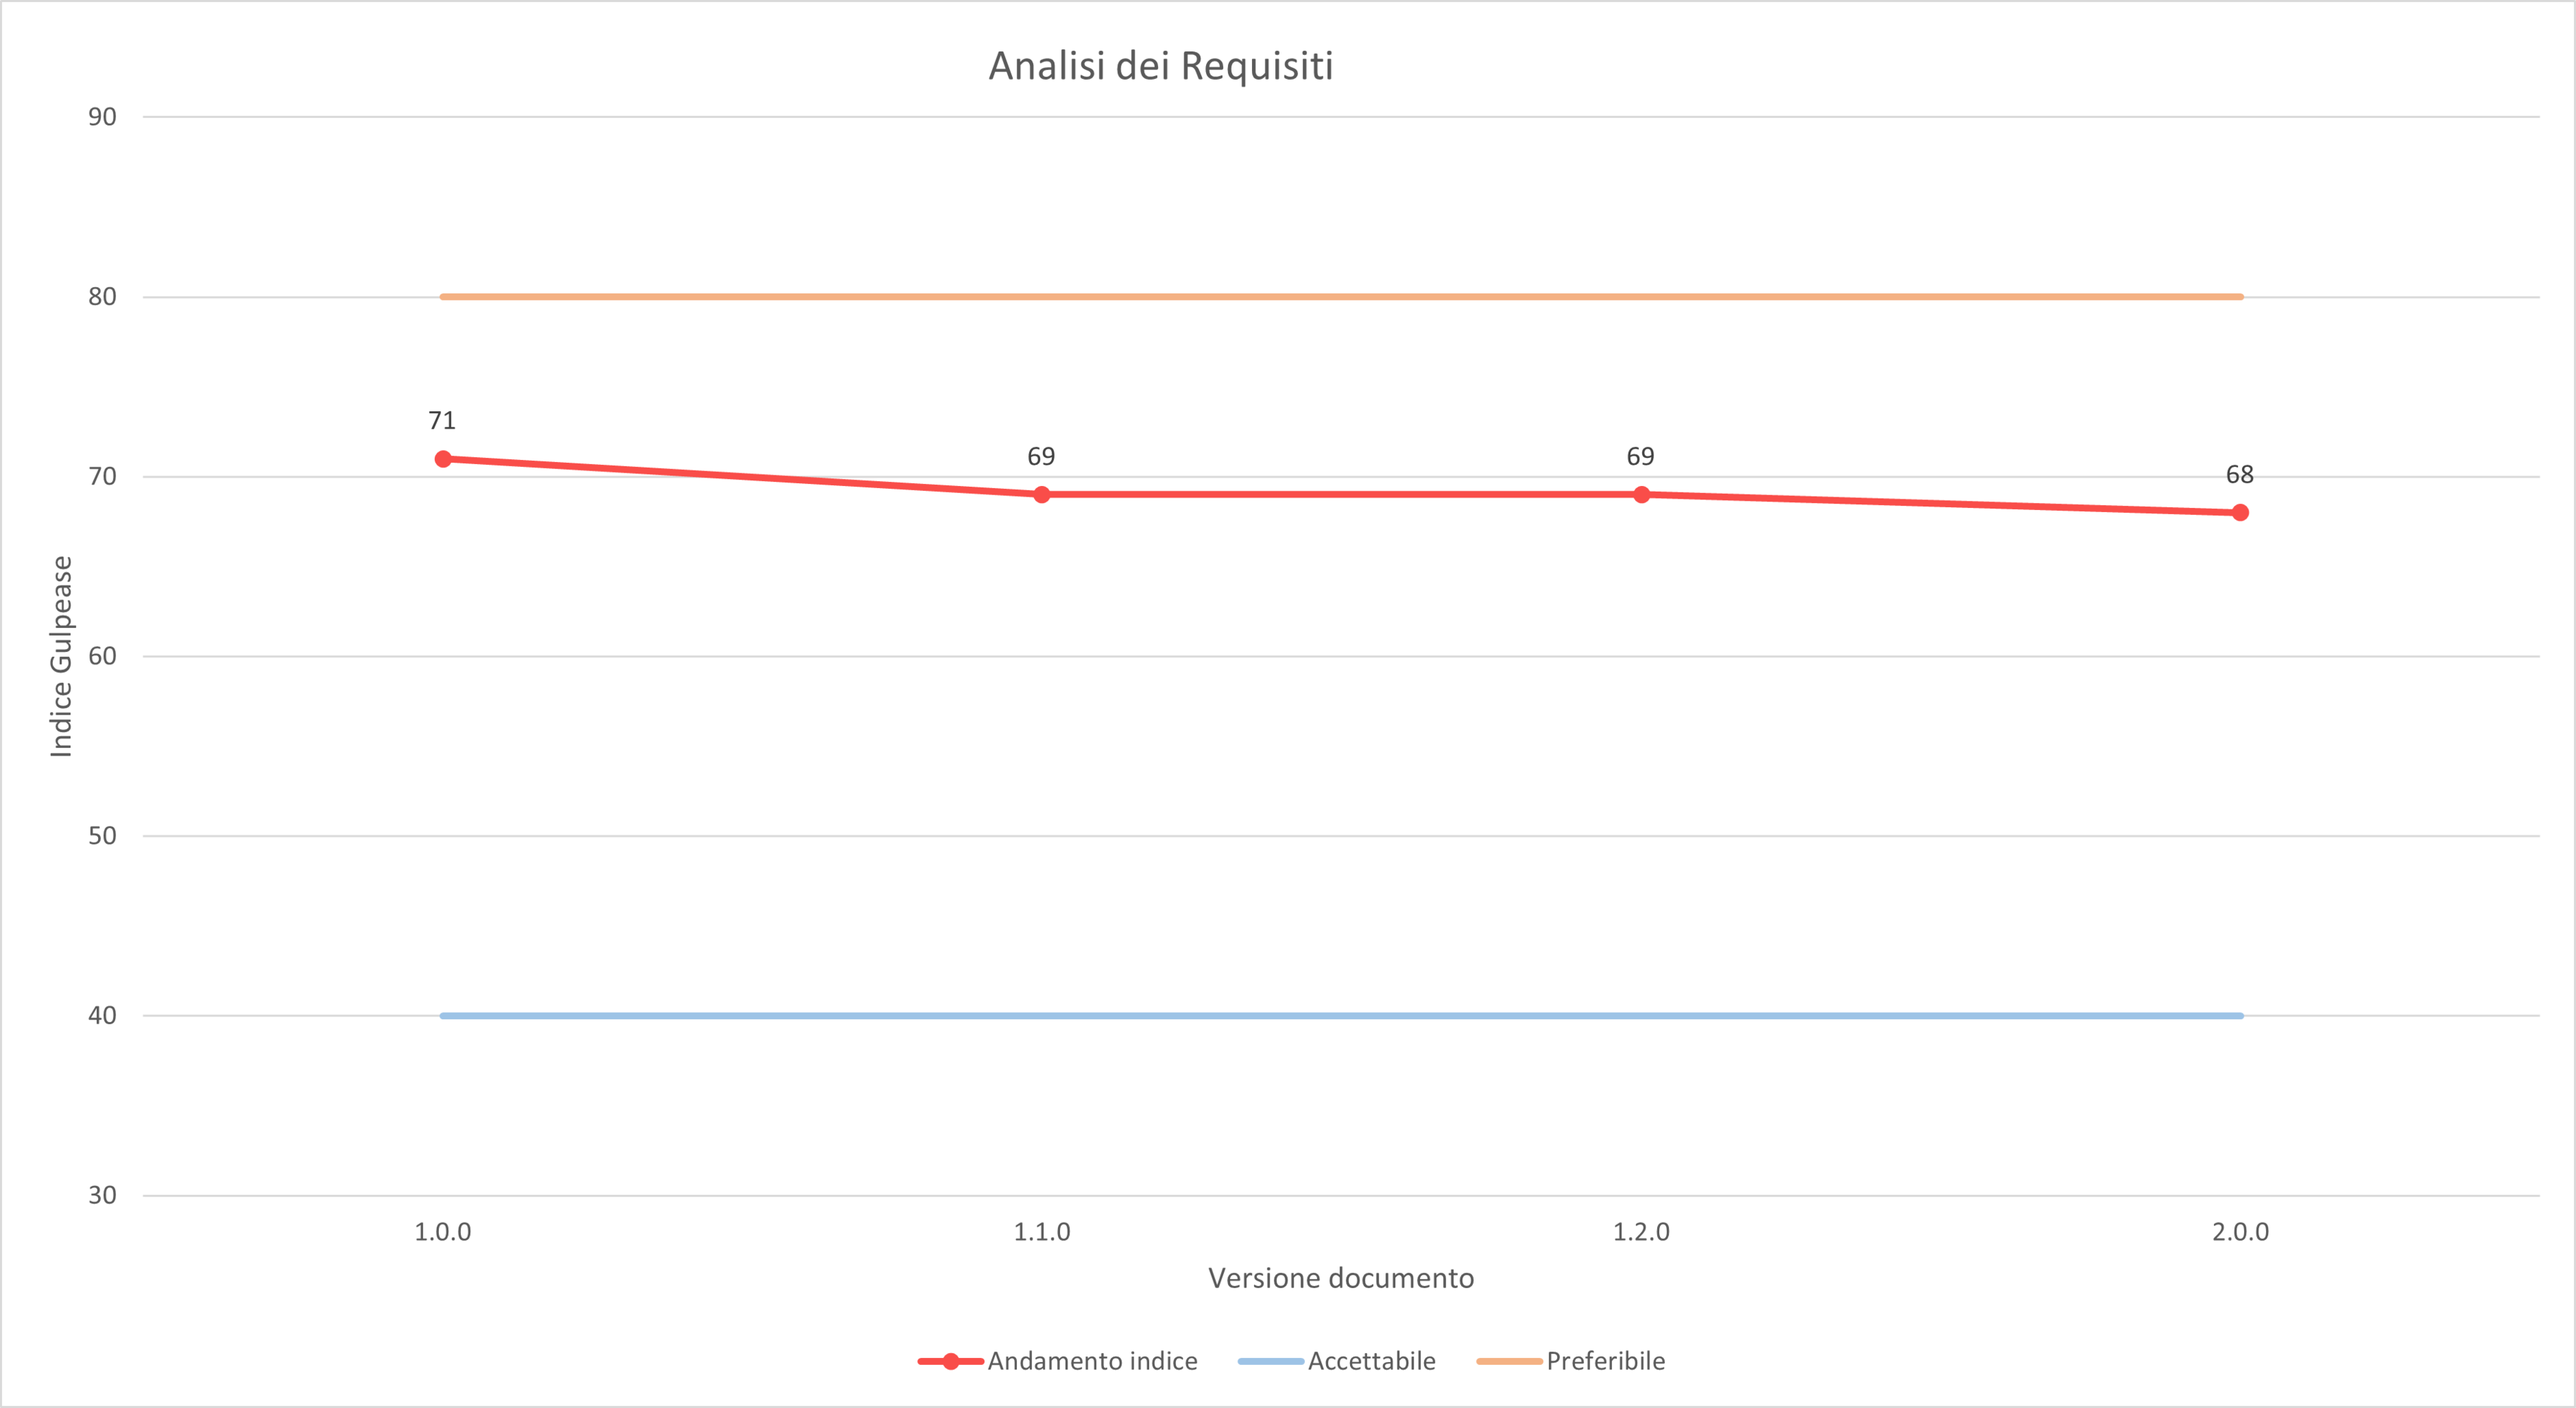
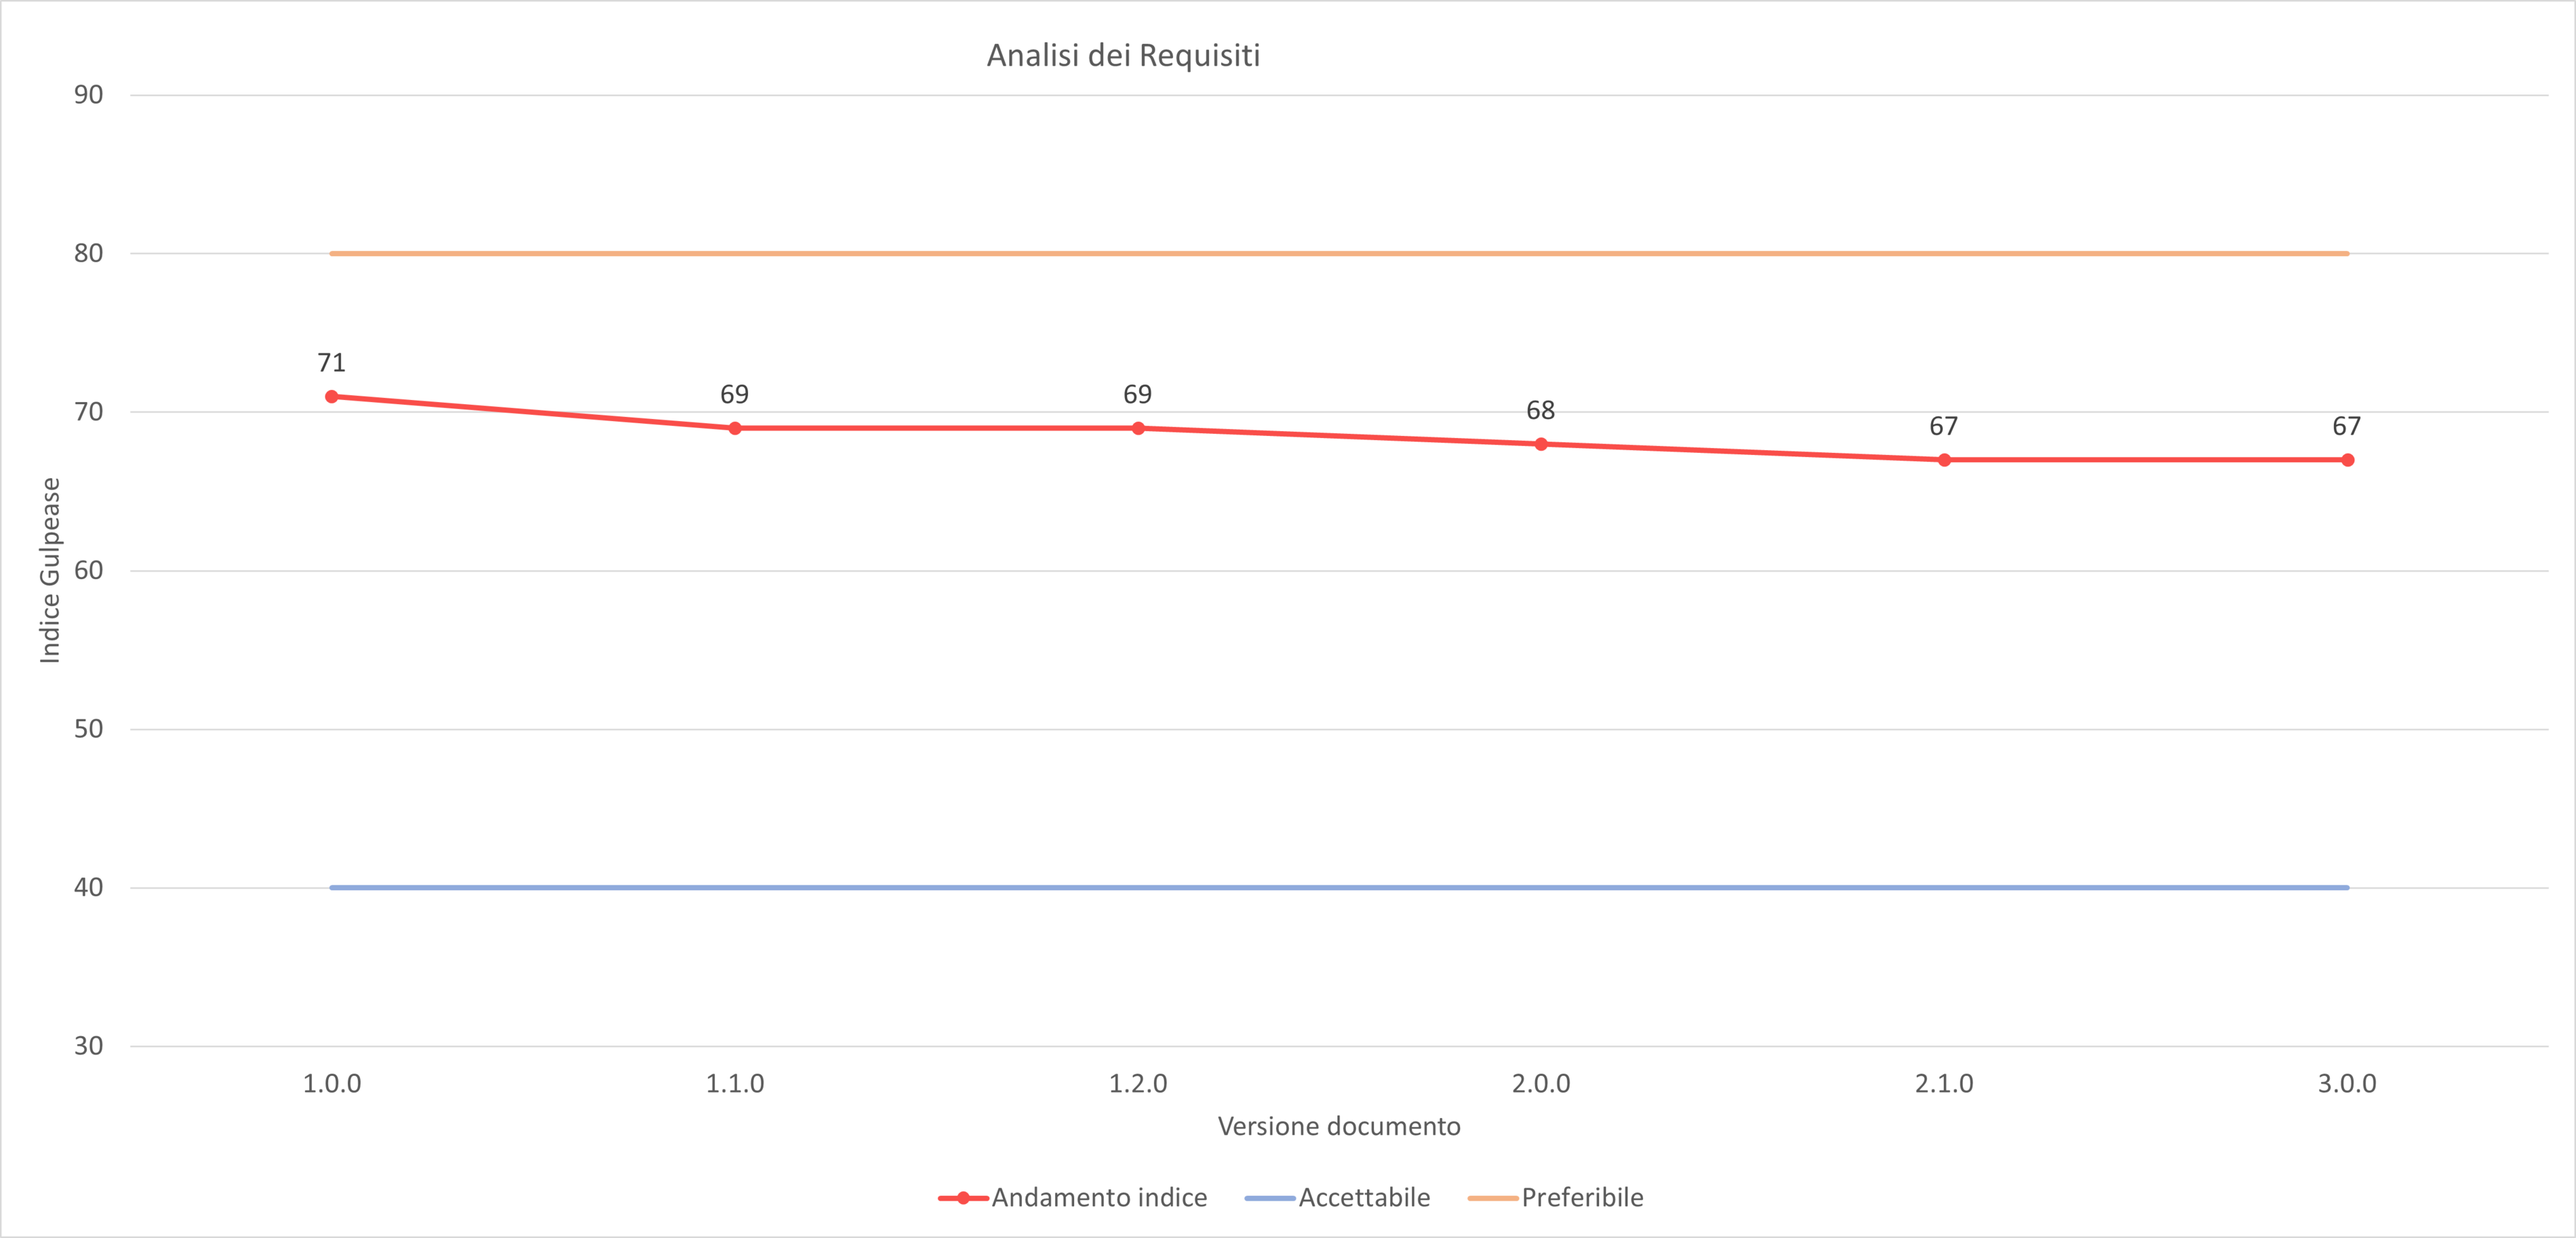
fix

diff --git a/RQ/Documenti Esterni/Piano di Qualifica/pianoQualifica.tex b/RQ/Documenti Esterni/Piano di Qualifica/pianoQualifica.tex
@@ -92,8 +92,8 @@ urlcolor=blue}
     \renewcommand{\arraystretch}{1.8}
     \label{tab:Diario delle modifiche}
     \begin{longtable}[!h]{p{160px} p{80px} p{70px} p{55px} p{40px}}
-        \rowcolor{logo!70} \textbf{Modifica}                                                     & \textbf{Autore}   & \textbf{Ruolo}          & \textbf{Data} & \textbf{Versione} \\
-        Validazione documento                                                                    & Nicolò Giaccone   & \textit{Responsabile}   & 2021-07-29    & 3.0.0             \\
+        \rowcolor{logo!70} \textbf{Modifica}                                                      & \textbf{Autore}   & \textbf{Ruolo}          & \textbf{Data} & \textbf{Versione} \\
+        Validazione documento                                                                     & Nicolò Giaccone   & \textit{Responsabile}   & 2021-07-29    & 3.0.0             \\
         Verifica documento \newline (Verificatore: Samuele De Simone)                             & Simone Urbani     & \textit{Verificatore}   & 2021-07-29    & 2.3.0             \\
         Aggiornamento \S 4.1.3, rilevazione delle metriche \newline (Verificatore: Simone Urbani) & Marco Barbaresco  & \textit{Amministratore} & 2021-07-28    & 2.2.3             \\
         Aggiunti i test di unità \newline (Verificatore: Simone Urbani)                           & Tito Scutari      & \textit{Amministratore} & 2021-07-28    & 2.2.2             \\
@@ -105,22 +105,22 @@ urlcolor=blue}
         Verifica documento \newline (Verificatore: Samuele De Simone)                             & Simone Urbani     & \textit{Verificatore}   & 2021-05-23    & 2.1.0             \\
         Correzione \S 4.1.4 \newline (Verificatore: Samuele De Simone)                            & Marco Barbaresco  & \textit{Amministratore} & 2021-05-20    & 2.0.2             \\
         Correzione \S2, \S3 \newline (Verificatore: Samuele De Simone)                            & Marco Barbaresco  & \textit{Amministratore} & 2021-05-20    & 2.0.1             \\
-        Validazione                                                                              & Tito Scutari      & \textit{Responsabile}   & 2021-05-02    & 2.0.0             \\
-        Aggiornamento \S A.3                                                                     & Marco Barbaresco  & \textit{Verificatore}   & 2021-05-02    & 1.2.1             \\
-        Aggiunta \S A.3                                                                          & Marco Barbaresco  & \textit{Analista}       & 2021-05-02    & 1.2.0             \\
-        Aggiornamento \S 4.1.4                                                                   & Samuele De Simone & \textit{Verificatore}   & 2021-04-30    & 1.1.2             \\
-        Modifica \S 2.2                                                                          & Marco Barbaresco  & \textit{Verificatore}   & 2021-04-24    & 1.1.1             \\
-        Rimosse Valutazione per il miglioramento e Standard di Qualità                           & Tito Scutari      & \textit{Amministratore} & 2021-04-24    & 1.1.0             \\
-        Validazione                                                                              & Samuele De Simone & \textit{Responsabile}   & 2021-03-30    & 1.0.0             \\
-        Verifica documento                                                                       & Manuel Varo       & \textit{Verificatore}   & 2021-03-30    & 0.1.0             \\
-        Aggiunta sezione Resoconto delle Attività di Verifica                                    & Tito Scutari      & \textit{Verificatore}   & 2021-03-29    & 0.0.8             \\
-        Aggiunta sezione Specifica dei Test                                                      & Tito Scutari      & \textit{Verificatore}   & 2021-03-26    & 0.0.7             \\
-        Aggiunta sezione Valutazioni per il miglioramento                                        & Tito Scutari      & \textit{Verificatore}   & 2021-03-24    & 0.0.6             \\
-        Aggiunta sezione Standard di Qualità                                                     & Tito Scutari      & \textit{Verificatore}   & 2021-03-23    & 0.0.5             \\
-        Aggiunta sezione Qualità di Prodotto                                                     & Marco Barbaresco  & \textit{Analista}       & 2021-03-22    & 0.0.4             \\
-        Aggiunta sezione Qualità di Processo                                                     & Marco Barbaresco  & \textit{Analista}       & 2021-03-21    & 0.0.3             \\
-        Aggiunta introduzione                                                                    & Marco Barbaresco  & \textit{Analista}       & 2021-03-19    & 0.0.2             \\
-        Prima stesura documento                                                                  & Marco Barbaresco  & \textit{Analista}       & 2021-03-18    & 0.0.1             \\
+        Validazione                                                                               & Tito Scutari      & \textit{Responsabile}   & 2021-05-02    & 2.0.0             \\
+        Aggiornamento \S A.3                                                                      & Marco Barbaresco  & \textit{Verificatore}   & 2021-05-02    & 1.2.1             \\
+        Aggiunta \S A.3                                                                           & Marco Barbaresco  & \textit{Analista}       & 2021-05-02    & 1.2.0             \\
+        Aggiornamento \S 4.1.4                                                                    & Samuele De Simone & \textit{Verificatore}   & 2021-04-30    & 1.1.2             \\
+        Modifica \S 2.2                                                                           & Marco Barbaresco  & \textit{Verificatore}   & 2021-04-24    & 1.1.1             \\
+        Rimosse Valutazione per il miglioramento e Standard di Qualità                            & Tito Scutari      & \textit{Amministratore} & 2021-04-24    & 1.1.0             \\
+        Validazione                                                                               & Samuele De Simone & \textit{Responsabile}   & 2021-03-30    & 1.0.0             \\
+        Verifica documento                                                                        & Manuel Varo       & \textit{Verificatore}   & 2021-03-30    & 0.1.0             \\
+        Aggiunta sezione Resoconto delle Attività di Verifica                                     & Tito Scutari      & \textit{Verificatore}   & 2021-03-29    & 0.0.8             \\
+        Aggiunta sezione Specifica dei Test                                                       & Tito Scutari      & \textit{Verificatore}   & 2021-03-26    & 0.0.7             \\
+        Aggiunta sezione Valutazioni per il miglioramento                                         & Tito Scutari      & \textit{Verificatore}   & 2021-03-24    & 0.0.6             \\
+        Aggiunta sezione Standard di Qualità                                                      & Tito Scutari      & \textit{Verificatore}   & 2021-03-23    & 0.0.5             \\
+        Aggiunta sezione Qualità di Prodotto                                                      & Marco Barbaresco  & \textit{Analista}       & 2021-03-22    & 0.0.4             \\
+        Aggiunta sezione Qualità di Processo                                                      & Marco Barbaresco  & \textit{Analista}       & 2021-03-21    & 0.0.3             \\
+        Aggiunta introduzione                                                                     & Marco Barbaresco  & \textit{Analista}       & 2021-03-19    & 0.0.2             \\
+        Prima stesura documento                                                                   & Marco Barbaresco  & \textit{Analista}       & 2021-03-18    & 0.0.1             \\
     \end{longtable}
 \end{center}
 

diff --git a/RQ/Documenti Esterni/Piano di Qualifica/sezioni/resocontoAttivitàVerifica.tex b/RQ/Documenti Esterni/Piano di Qualifica/sezioni/resocontoAttivitàVerifica.tex
@@ -102,13 +102,13 @@ I dati riportati nel seguito fanno riferimento a:
     \begin{longtable}[!h]{p{100px} p{50px} p{50px} p{50px} p{50px} p{50px} p{50px}}
         \caption{Esiti verifica con Gulpease}                                                                                        \\
         \rowcolor{logo!70}   \textbf{Documento} & \textbf{A} & \textbf{C} & \textbf{PA} & \textbf{PD} & \textbf{VC} & \textbf{Esito} \\
-        \textit{Norme di Progetto}              & 68         & 68         & 72          & 69          &             & Superato       \\
+        \textit{Norme di Progetto}              & 68         & 68         & 72          & 68          &             & Superato       \\
         \textit{Piano di Progetto}              & 73         & 73         & 69          & 73          &             & Superato       \\
-        \textit{Analisi dei Requisiti}          & 71         & 71         & 68          & 68          &             & Superato       \\
+        \textit{Analisi dei Requisiti}          & 71         & 71         & 68          & 67          &             & Superato       \\
         \textit{Piano di Qualifica}             & 69         & 69         & 69          &             &             & Superato       \\
         \textit{Studio di Fattibilità}          & 74         & 74         & /           & /           &             & Superato       \\
         \textit{Maintainer Manual}              & /          & /          & /           & 70          &             & Superato       \\
-        \textit{User Manual}                    & /          & /          & /           &             &             & Superato       \\
+        \textit{User Manual}                    & /          & /          & /           & 78          &             & Superato       \\
         \textit{Glossario}                      & 49         & 49         & 49          &             &             & Superato       \\
         \textit{Verbali interni (media)}        & 67         & 67         & 56          & 59          &             & Superato       \\
         \textit{Verbali esterni (media)}        & 71         & 71         & 60          & 57          &             & Superato       \\
@@ -159,6 +159,19 @@ I dati riportati nel seguito fanno riferimento a:
     \caption{Indice di Gulpease: \textit{Glossario}}
     \vspace{10px}
     \includegraphics[scale=0.5]{sezioni/immagini/GlossarioGulpease.png}
+    \centering
+\end{figure}
+\pagebreak
+\begin{figure}[!ht]
+    \caption{Indice di Gulpease: \textit{Maintainer Manual}}
+    \vspace{10px}
+    \includegraphics[scale=0.5]{sezioni/immagini/MaintainerManualGulpease.png}
+    \centering
+\end{figure}
+\begin{figure}[!ht]
+    \caption{Indice di Gulpease: \textit{User Manual}}
+    \vspace{10px}
+    \includegraphics[scale=0.5]{sezioni/immagini/UserManualGulpease.png}
     \centering
 \end{figure}
 \pagebreak
